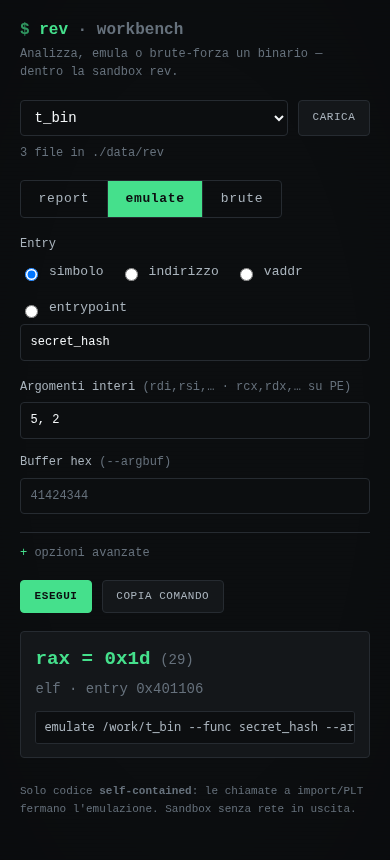
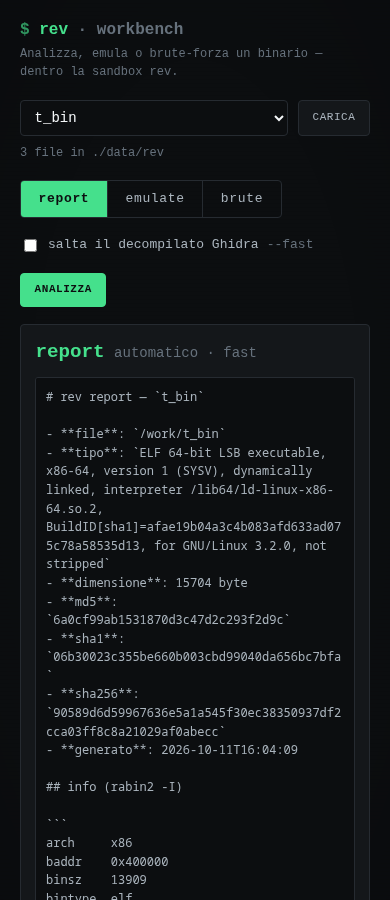
feat(rev): auto-report on select/upload + function picker in the workbench
Selecting or uploading a binary now runs the fast report by itself (rev-report
--no-write, so no stray files) and switches to the report tab, giving the flow
upload -> see report -> pick a function -> emulate/brute. The function field is a
datalist populated from the binary's symbols (GET /api/symbols via rabin2 -sj,
imports excluded). Verified: 12 symbols, auto-report on load, emulate still ok,
clean console, impeccable detect -> [].

diff --git a/rev/rev_web.py b/rev/rev_web.py
@@ -65,6 +65,28 @@ def list_files(root: str) -> list[str]:
     return sorted(out)
 
 
+def list_symbols(rel: str) -> list[str]:
+    """Function names defined in the binary (for the picker). Imports excluded."""
+    rc, out, _err, timed = _exec(["rabin2", "-sj", _safe_path(rel)], 30)
+    if timed or rc != 0:
+        return []
+    try:
+        data = json.loads(out)
+    except ValueError:
+        return []
+    rows = data.get("symbols", []) if isinstance(data, dict) else data
+    names = set()
+    for s in rows:
+        if not isinstance(s, dict) or s.get("type") != "FUNC" or s.get("is_imported"):
+            continue
+        nm = (s.get("name") or "").strip()
+        if nm.startswith("sym."):
+            nm = nm[4:]
+        if nm:
+            names.add(nm)
+    return sorted(names)[:1000]
+
+
 def _safe_path(rel: str) -> str:
     rel = (rel or "").strip()
     full = os.path.realpath(os.path.join(WORK, rel))
@@ -160,6 +182,8 @@ def run_report(p: dict) -> dict:
     argv = [REPORT, _safe_path(p.get("binary", "")), "--print"]
     if p.get("fast"):
         argv.append("--fast")
+    if p.get("no_write"):
+        argv.append("--no-write")
     rc, out, err, timed = _exec(argv, REPORT_TIMEOUT)
     if timed:
         return {"ok": False, "error": err, "argv": argv[1:]}
@@ -305,14 +329,15 @@ PAGE = r"""<!doctype html>
   <div id="entry" class="fields">
     <label class="f">Entry
       <span class="muted" id="modes">
-        <label class="check"><input type="radio" name="mode" value="func" checked aria-label="simbolo funzione"> simbolo</label>
-        <label class="check"><input type="radio" name="mode" value="addr" aria-label="indirizzo assoluto"> indirizzo</label>
-        <label class="check"><input type="radio" name="mode" value="vaddr" aria-label="vaddr relativo"> vaddr</label>
-        <label class="check"><input type="radio" name="mode" value="auto" aria-label="entrypoint"> entrypoint</label>
+        <label class="check"><input type="radio" name="mode" value="func" checked> simbolo</label>
+        <label class="check"><input type="radio" name="mode" value="addr"> indirizzo</label>
+        <label class="check"><input type="radio" name="mode" value="vaddr"> vaddr</label>
+        <label class="check"><input type="radio" name="mode" value="auto"> entrypoint</label>
       </span>
-      <input id="func" type="text" placeholder="secret_hash" autocomplete="off" spellcheck="false" aria-label="simbolo funzione">
+      <input id="func" type="text" list="funcs" placeholder="secret_hash" autocomplete="off" spellcheck="false" aria-label="nome funzione">
       <input id="addr" type="text" placeholder="0x140001480" autocomplete="off" spellcheck="false" aria-label="indirizzo assoluto" hidden>
       <input id="vaddr" type="text" placeholder="0x1149" autocomplete="off" spellcheck="false" aria-label="indirizzo virtuale relativo" hidden>
+      <datalist id="funcs"></datalist>
     </label>
   </div>
 
@@ -410,7 +435,30 @@ async function loadFiles(){
     sel.disabled = !files.length;
   }catch(e){ $('filehint').textContent = 'impossibile elencare i file: ' + e; }
 }
-loadFiles();
+async function loadSymbols(){
+  const f = $('binary').value;
+  const dl = $('funcs'); dl.innerHTML = '';
+  if(!f) return;
+  try{
+    const syms = await (await fetch('api/symbols?binary=' + encodeURIComponent(f), {cache:'no-cache'})).json();
+    if(Array.isArray(syms)) syms.forEach(s => { const o = document.createElement('option'); o.value = s; dl.appendChild(o); });
+  }catch(e){ /* the picker is optional */ }
+}
+
+let autoToken = 0;
+async function autoReport(){
+  if(!$('binary').value) return;
+  const token = ++autoToken;
+  const r = await post('api/report', Object.assign(entry(), {fast:true, no_write:true}), $('go'));
+  if(token !== autoToken) return;                       // a newer selection won
+  lastCmd = ''; $('copy').disabled = true;
+  if(!r.ok){ show('<div class="res bad"><div class="lead"><span class="rax">report</span></div><p>' + esc(r.error || 'report non riuscito') + '</p></div>'); return; }
+  show('<div class="res"><div class="lead"><span class="rax">report</span><span class="muted">automatico · fast</span></div><pre>' + esc(r.markdown) + '</pre></div>');
+}
+async function onBinary(){ setAct('report'); await loadSymbols(); await autoReport(); }
+
+$('binary').addEventListener('change', onBinary);
+loadFiles().then(() => onBinary());
 
 $('pick').addEventListener('click', () => $('upload').click());
 $('upload').addEventListener('change', async (ev) => {
@@ -424,6 +472,7 @@ $('upload').addEventListener('change', async (ev) => {
     await loadFiles();
     $('binary').value = j.name;
     $('filehint').textContent = 'caricato ' + j.name + ' (' + j.size + ' byte)';
+    onBinary();
   }catch(e){ $('filehint').textContent = 'upload fallito: ' + e; }
   ev.target.value = '';
 });
@@ -524,11 +573,19 @@ class Handler(BaseHTTPRequestHandler):
         self._send(code, json.dumps(obj).encode(), "application/json")
 
     def do_GET(self) -> None:
-        path = urlparse(self.path).path
+        parsed = urlparse(self.path)
+        path = parsed.path
         if path in ("/", "/index.html"):
             self._send(200, PAGE.encode(), "text/html; charset=utf-8")
         elif path == "/api/files":
             self._json(200, list_files(WORK))
+        elif path == "/api/symbols":
+            from urllib.parse import parse_qs
+            rel = (parse_qs(parsed.query).get("binary") or [""])[0]
+            try:
+                self._json(200, list_symbols(rel))
+            except ValueError as exc:
+                self._json(200, {"ok": False, "error": str(exc)})
         elif path == "/healthz":
             self._send(200, b"ok", "text/plain")
         else:

diff --git a/rev/report.py b/rev/report.py
@@ -176,6 +176,8 @@ def main(argv) -> int:
     ap.add_argument("--out", default="reports", help="directory for the Markdown (default ./reports)")
     ap.add_argument("--fast", action="store_true", help="skip the Ghidra decompile")
     ap.add_argument("--print", dest="show", action="store_true", help="also print the report to stdout")
+    ap.add_argument("--no-write", action="store_true",
+                    help="do not write the Markdown file (use with --print for a one-shot view)")
     a = ap.parse_args(argv)
 
     if not os.path.isfile(a.binary):
@@ -183,6 +185,8 @@ def main(argv) -> int:
     report = build(a.binary, a.fast)
     if a.show:
         print(report)
+    if a.no_write:
+        return 0
     try:
         os.makedirs(a.out, exist_ok=True)
         stamp = datetime.datetime.now().strftime("%Y%m%d-%H%M%S")

diff --git a/tasks/todo.md b/tasks/todo.md
@@ -232,6 +232,13 @@
       `hidden` restavano visibili (`.fields{display:grid}` batteva `[hidden]`).
       Verificato desktop + mobile, console pulita, `impeccable detect` → `[]`.
       Screenshot `rev-workbench.png` + `rev-workbench-mobile.png`.
+- [x] **rev — workbench più "automatico"**: all'**upload/selezione** del binario
+      parte **da solo** un **report `--fast`** (con il nuovo `rev-report --no-write`,
+      per non scrivere file a ogni cambio) e la scheda passa a `report`. L'input
+      della funzione è una **datalist** popolata con i **simboli** del binario
+      (`GET /api/symbols` via `rabin2 -sj`, import esclusi). Flusso finale:
+      *carica → vedi report → scegli funzione → emulate/brute*. Verificato
+      (12 simboli, auto-report all'avvio, emulate ok, console pulita, detector `[]`).
 
 ### Da fare (prossima sessione)
 - [ ] **Prossimo miglioramento (da scegliere, sessione breve)**: (a) **emulazione**
